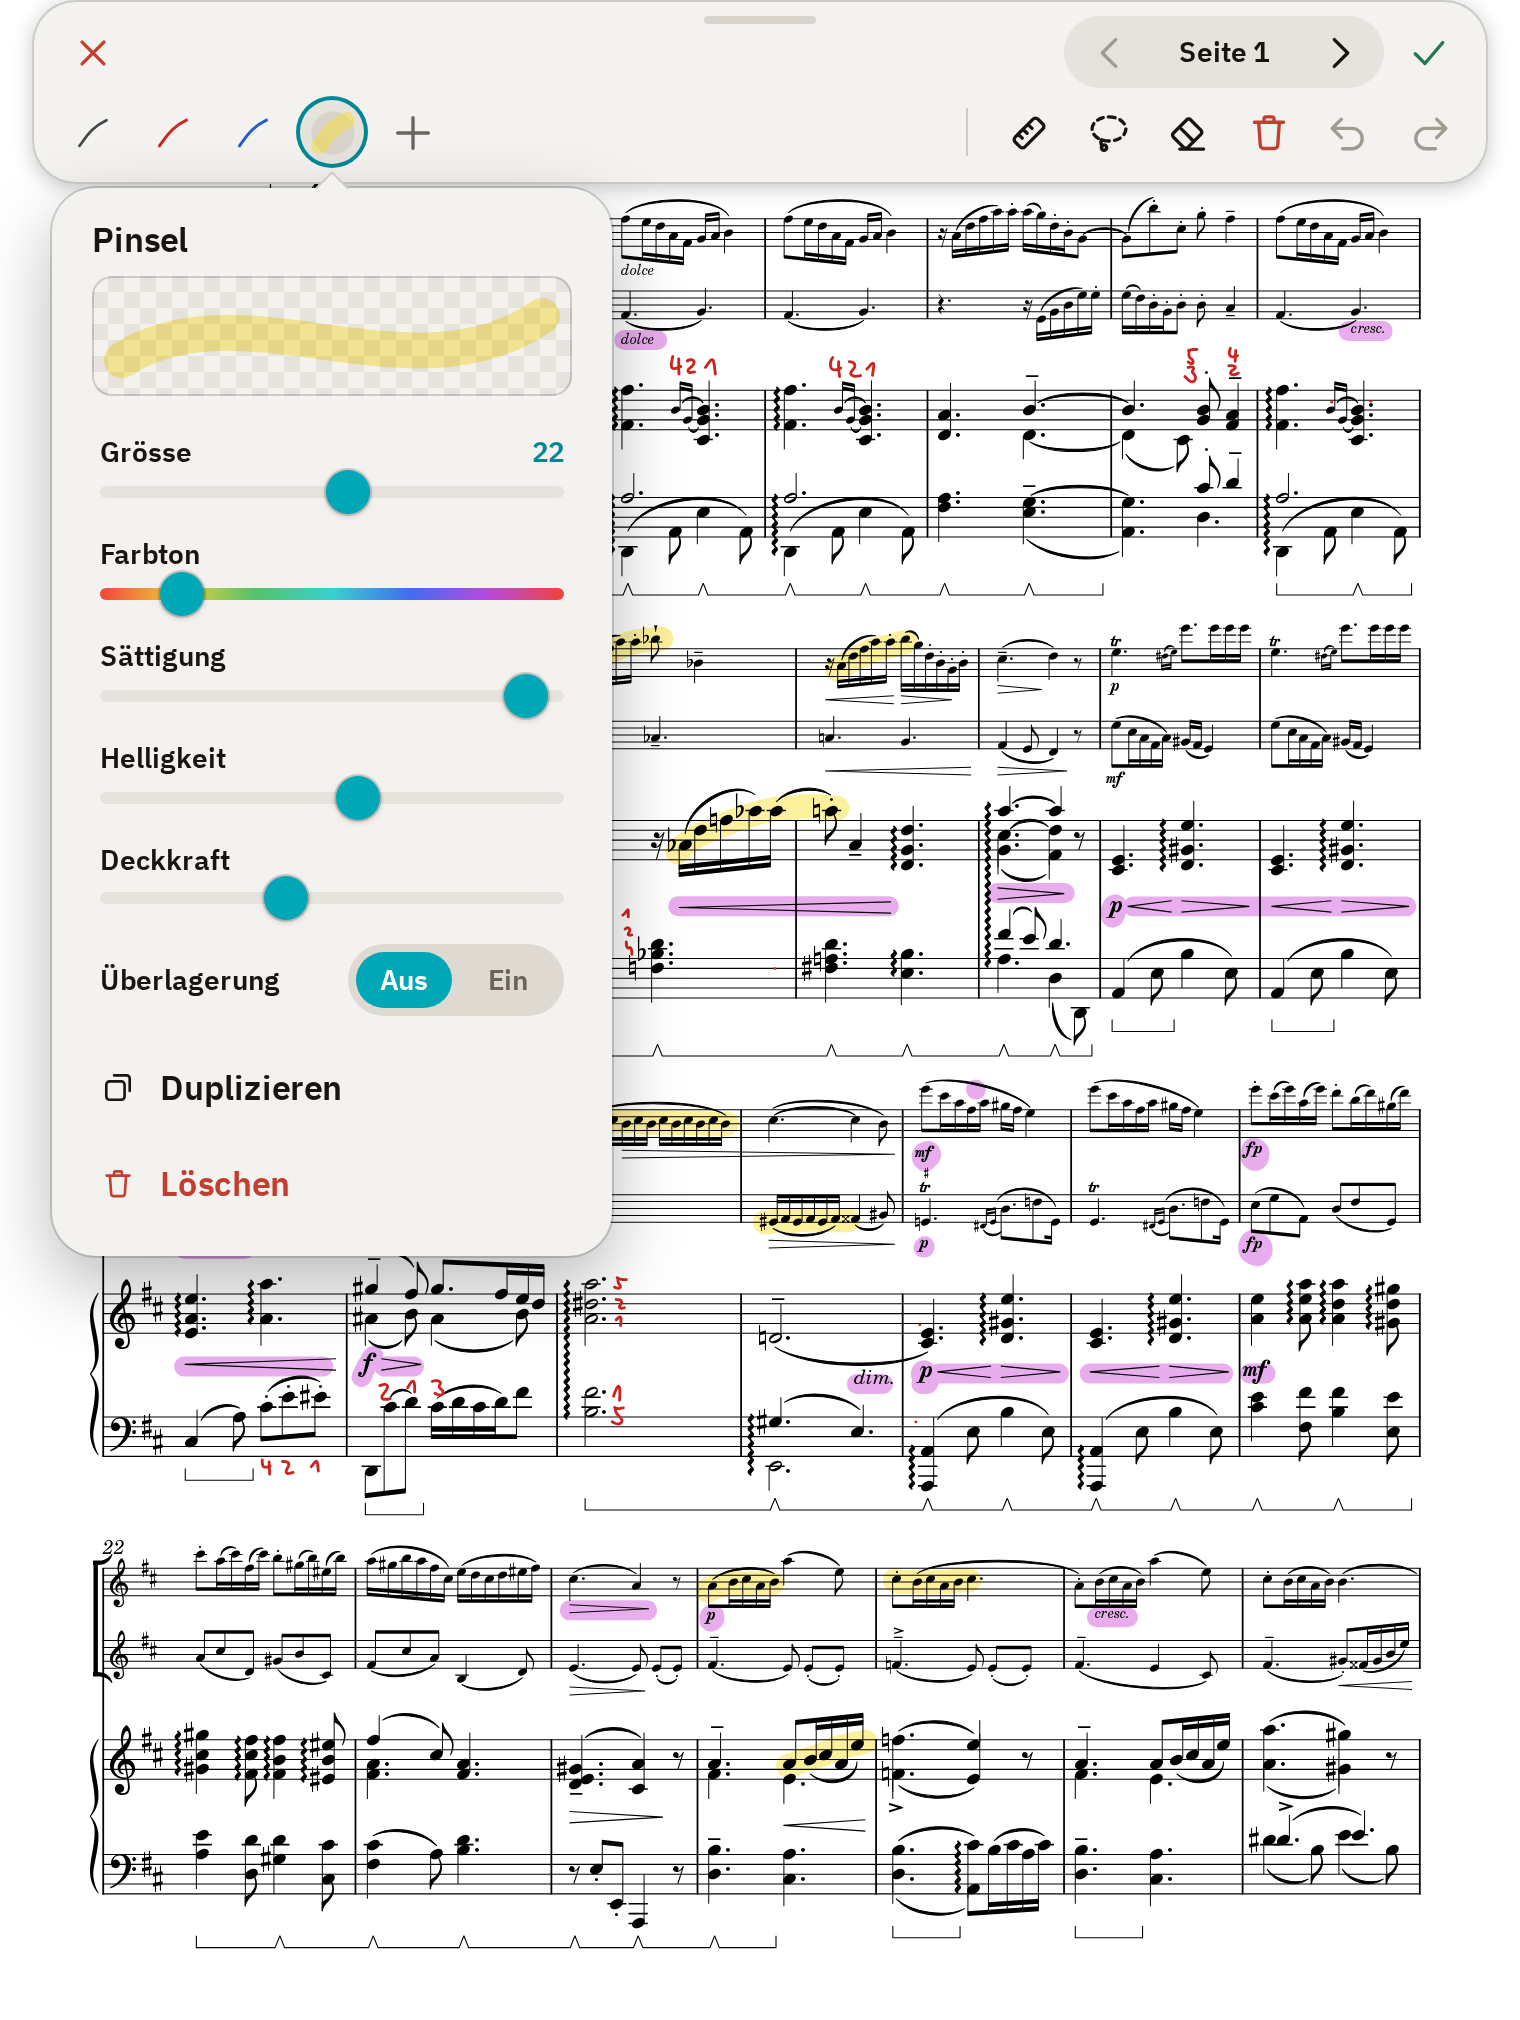
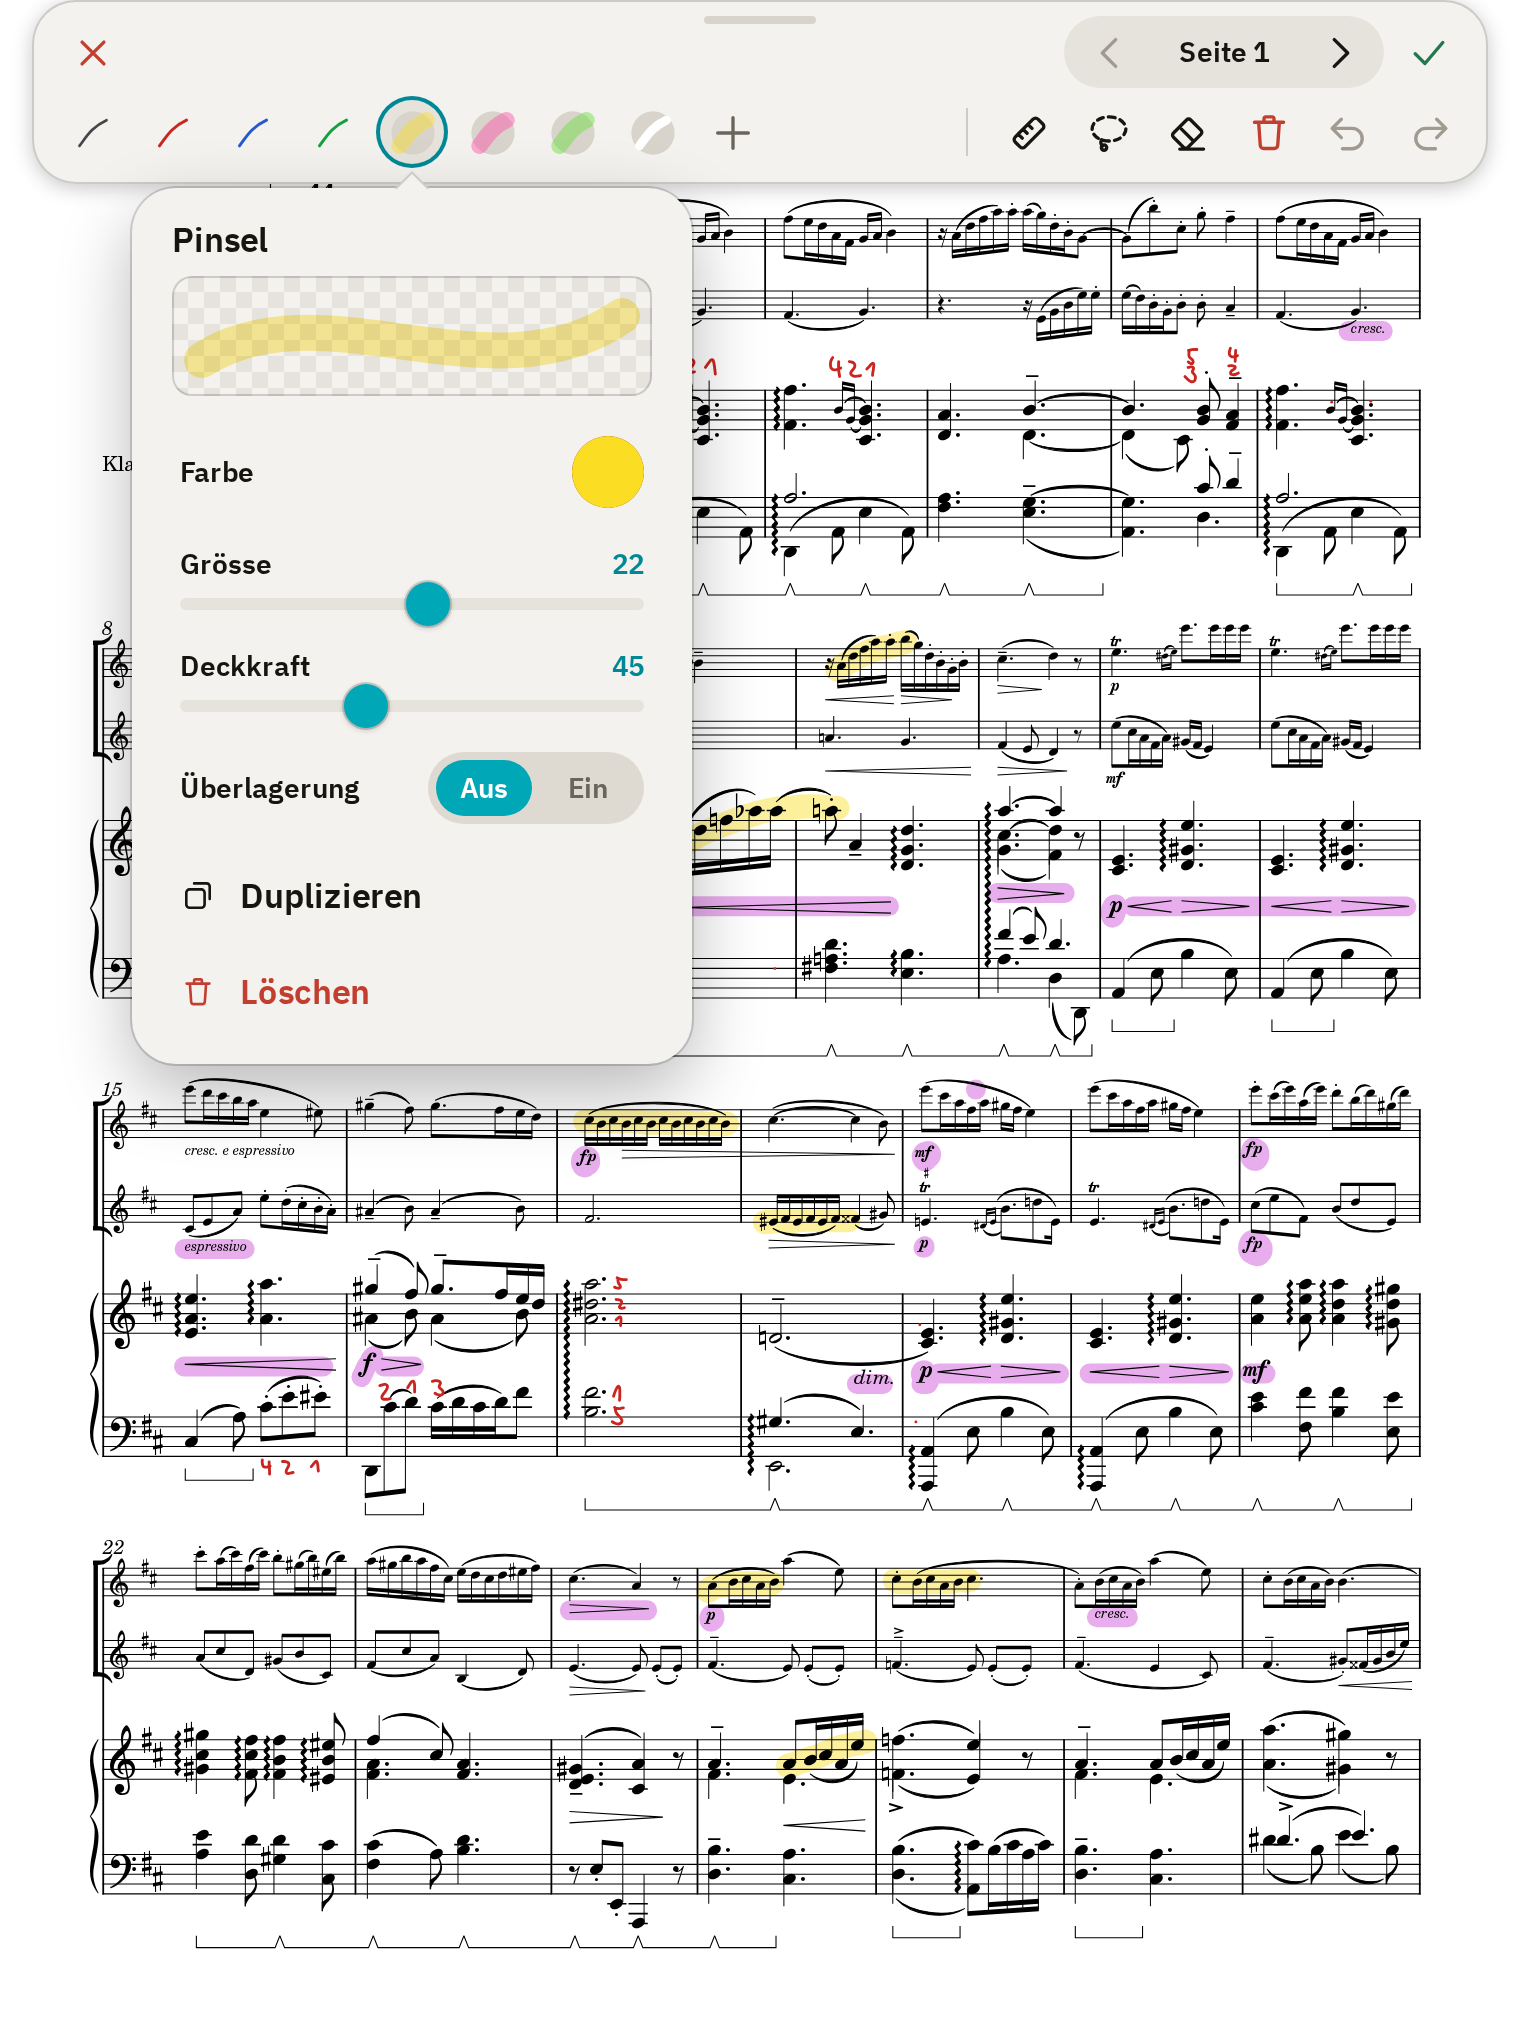
screenshot updates

Changed region(s): [[0.0, 0.0312, 0.4638, 0.655], [0.0618, 0.0936, 0.1855, 0.1248]]

diff --git a/anleitung/index.html b/anleitung/index.html
@@ -494,7 +494,7 @@ Dienstag
           <h4 id="pinsel">Pinsel und Werkzeuge</h4>
           <p>In der Werkzeugleiste stehen beliebig viele Pinsel sowie weitere Werkzeuge zur Verfügung. Ein zweites Tippen auf einen Pinsel, die Auswahl oder den Radierer öffnet dessen Einstellungen.</p>
           <figure class="shot shot--crop" style="--shot: 1 / 1">
-            <a href="../screenshots/pinsel.webp"><img src="../screenshots/pinsel.webp" width="1520" height="2020" loading="lazy" decoding="async" alt="Die Seite beim Schreiben mit den Einstellungen des gelben Leuchtstifts: Vorschau, Grösse 22, Farbton, Sättigung, Helligkeit, Deckkraft, «Überlagerung» auf «Aus», darunter «Duplizieren» und «Löschen»"></a>
+            <a href="../screenshots/pinsel.webp"><img src="../screenshots/pinsel.webp" width="1520" height="2020" loading="lazy" decoding="async" alt="Die Seite beim Schreiben mit den Einstellungen des gelben Leuchtstifts: Vorschau, Farbe, Grösse 22, Deckkraft 45, «Überlagerung» auf «Aus», darunter «Duplizieren» und «Löschen»"></a>
           </figure>
           <ul>
             <li>Ist die Deckkraft kleiner als 100&nbsp;%, lässt sich die <span class="ui">«Überlagerung»</span> ein- oder ausschalten. Steht sie auf <span class="ui">«Aus»</span>, verhält sich der Pinsel wie ein Leuchtstift und überdeckt den Hintergrund nie. Steht sie auf <span class="ui">«Ein»</span>, überdeckt er den Hintergrund, und seine Deckkraft kumuliert sich mit jedem neuen Pinselstrich.</li>
